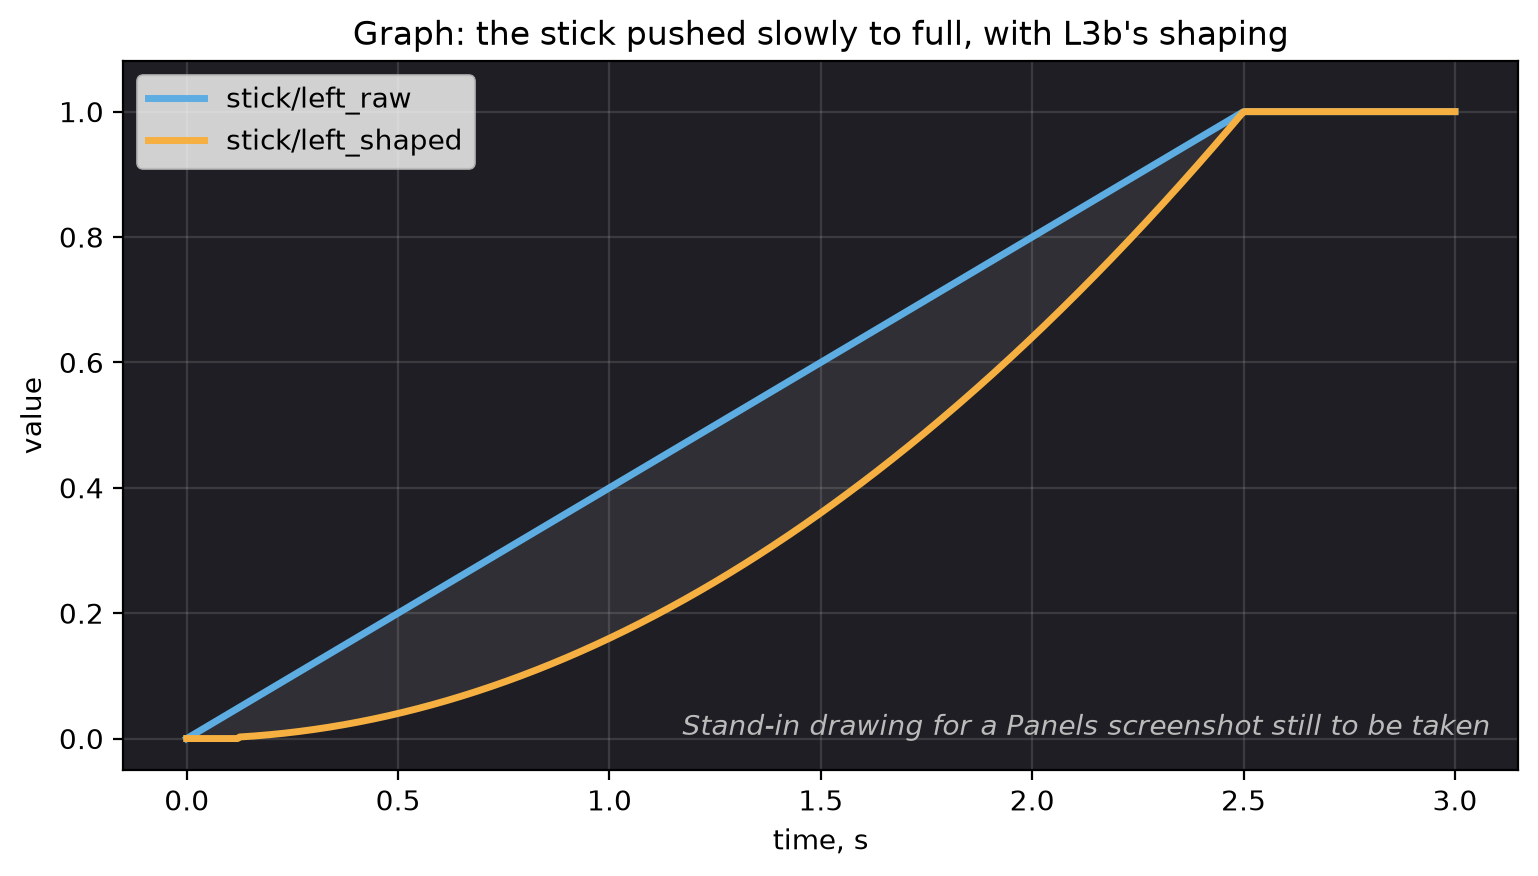
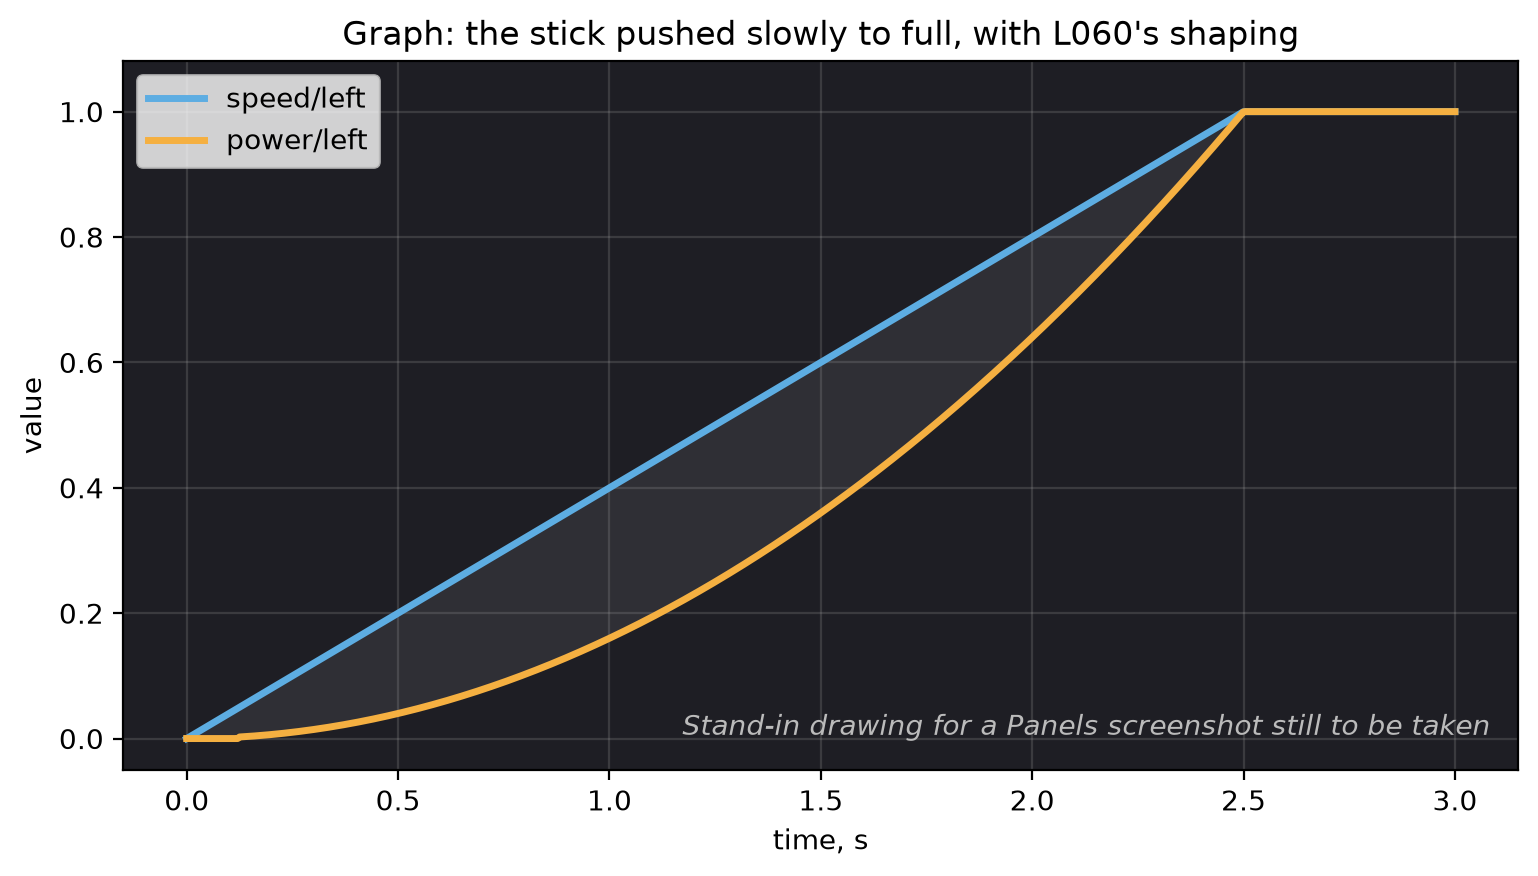
Figures: the Panels stand-in relabelled with L060's speed/left and power/left, as the old L3b is retired.

Changed region(s): [[0.1248, 0.0, 0.8427, 0.2158]]

diff --git a/src/draw.py b/src/draw.py
@@ -288,15 +288,15 @@ def panels_graph():
     shaped = squared(deadband(raw))
     fig, ax = plt.subplots(figsize=(9, 4.6))
     ax.set_facecolor("#1e1e24")
-    ax.plot(t, raw, color="#5dade2", linewidth=2.5, label="stick/left_raw")
-    ax.plot(t, shaped, color="#f5b041", linewidth=2.5, label="stick/left_shaped")
+    ax.plot(t, raw, color="#5dade2", linewidth=2.5, label="speed/left")
+    ax.plot(t, shaped, color="#f5b041", linewidth=2.5, label="power/left")
     ax.fill_between(t, shaped, raw, color="#ffffff", alpha=0.08)
     ax.set_xlabel("time, s")
     ax.set_ylabel("value")
     ax.set_ylim(-0.05, 1.08)
     ax.grid(alpha=0.2)
     ax.legend(loc="upper left")
-    ax.set_title("Graph: the stick pushed slowly to full, with L3b's shaping", fontsize=12)
+    ax.set_title("Graph: the stick pushed slowly to full, with L060's shaping", fontsize=12)
     stand_in(ax, "a Panels screenshot", x=0.98, y=0.04, ha="right", color="#bbbbbb")
     save(fig, "fig-panels-graph")
 
